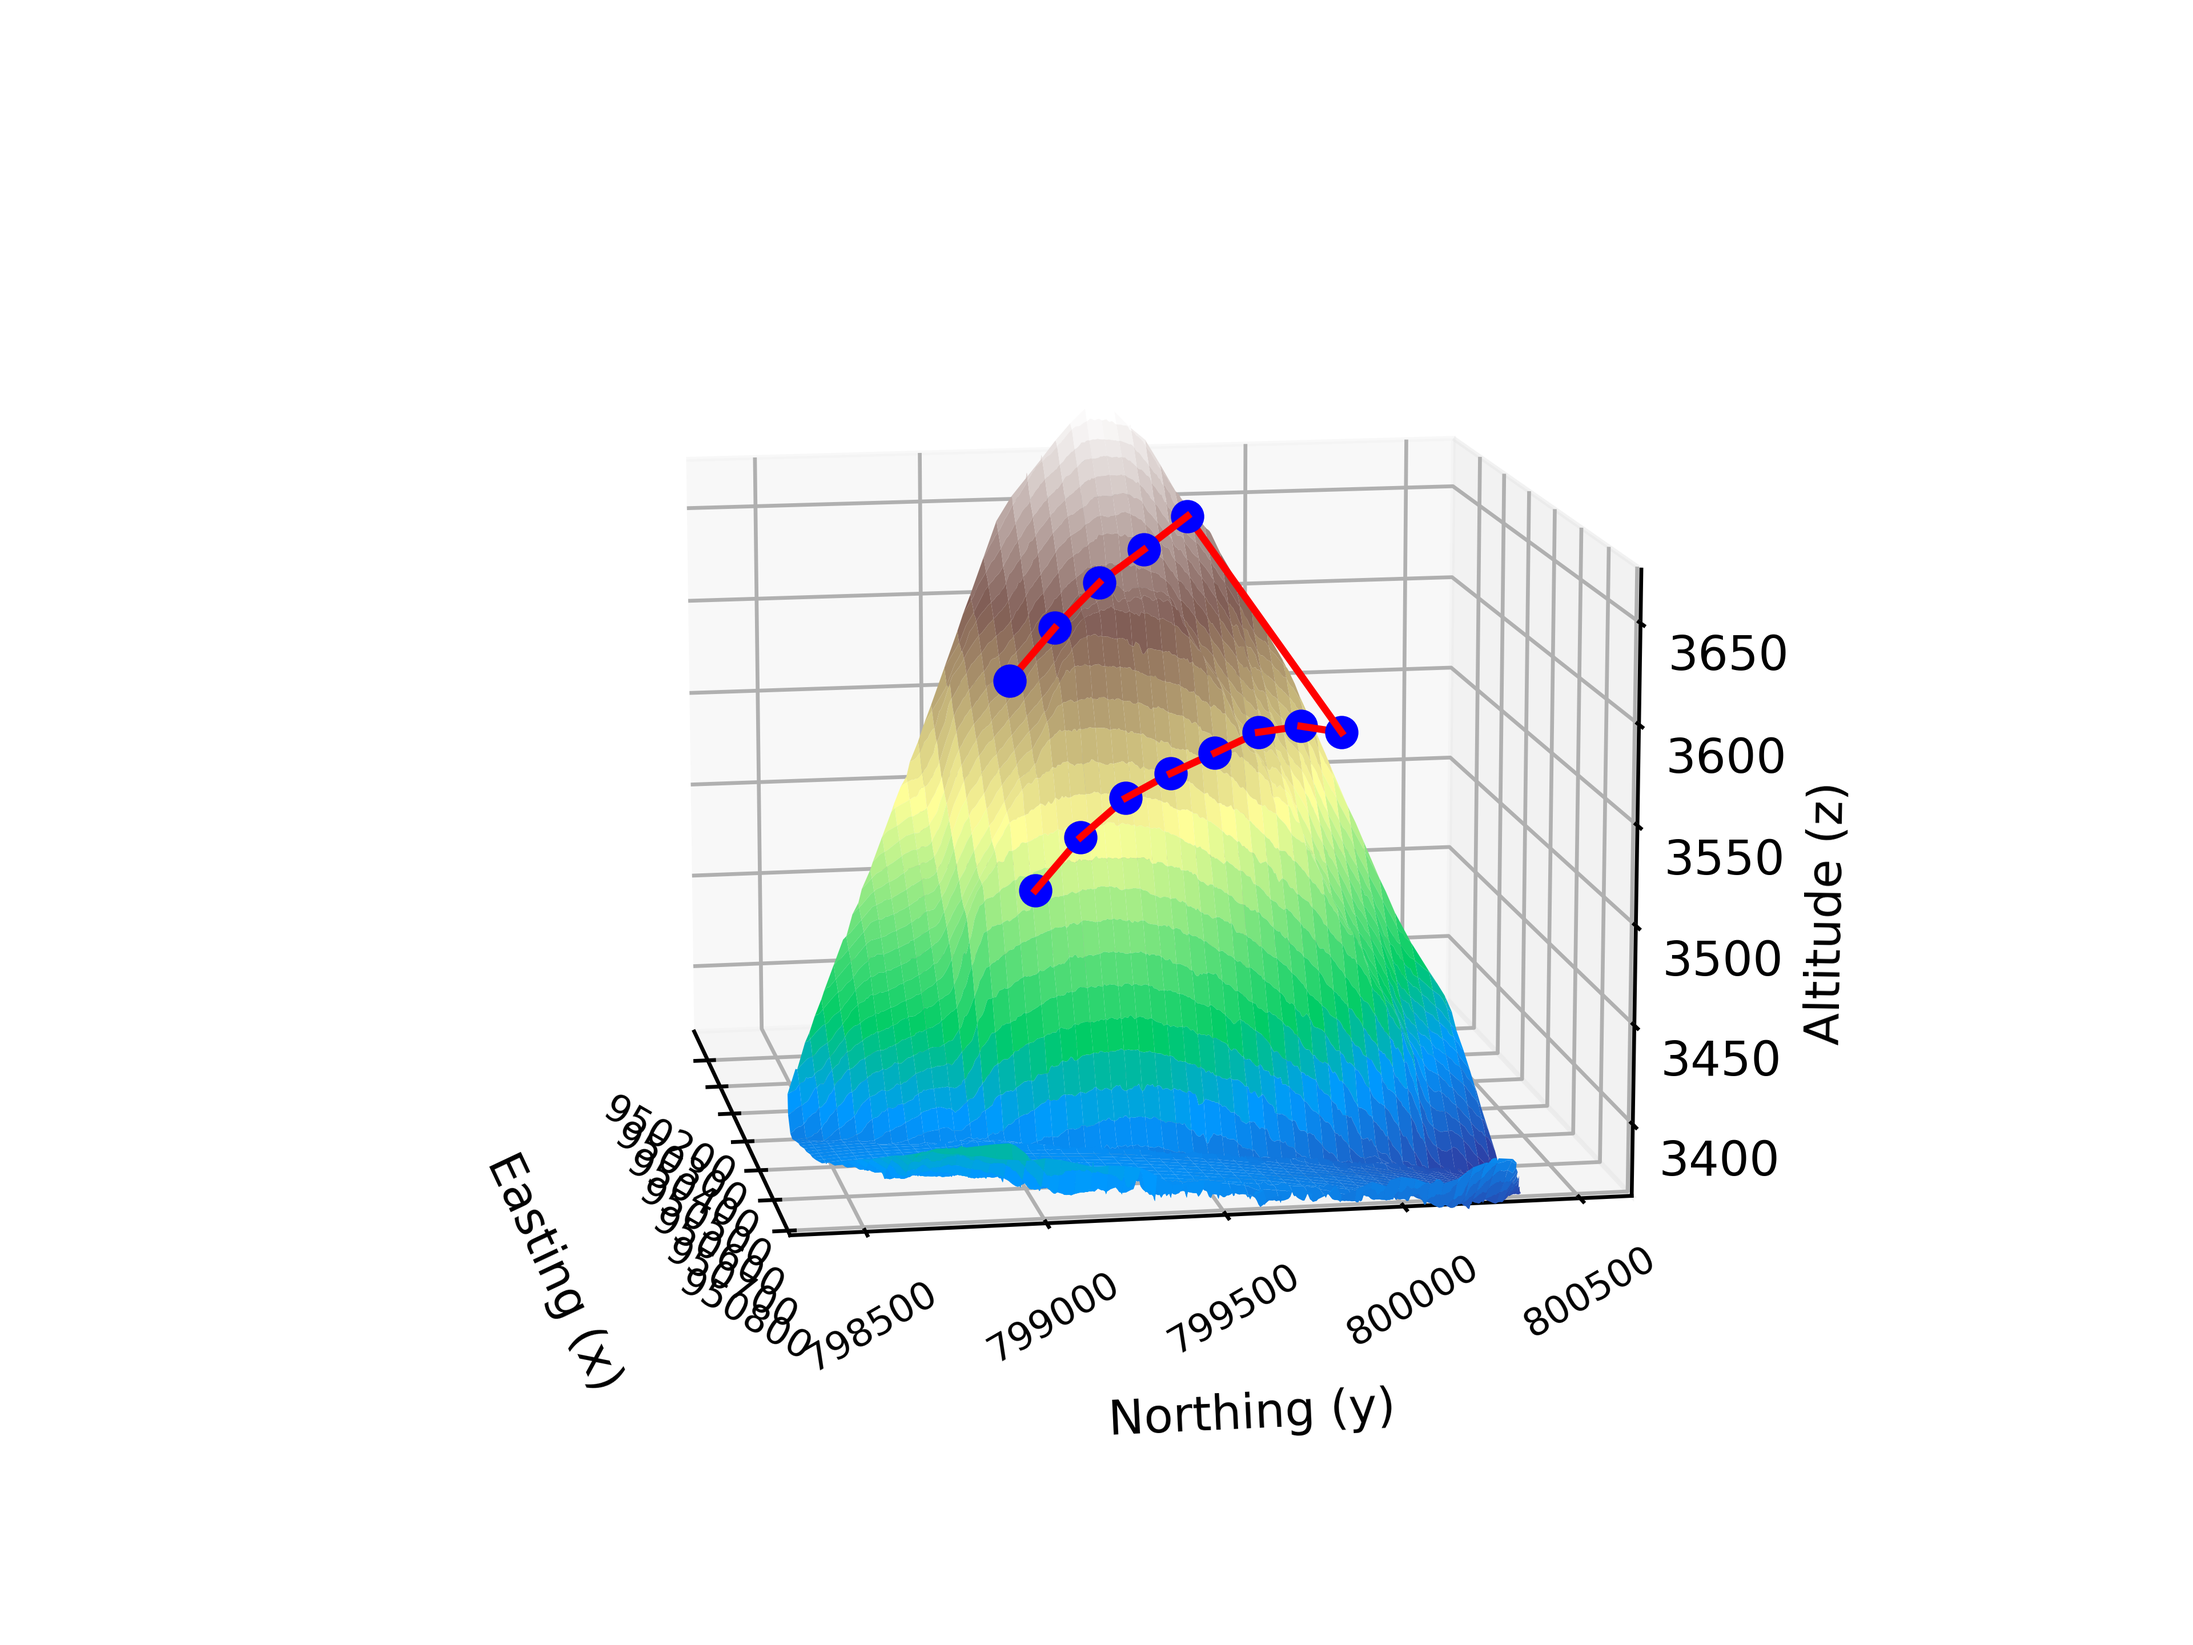
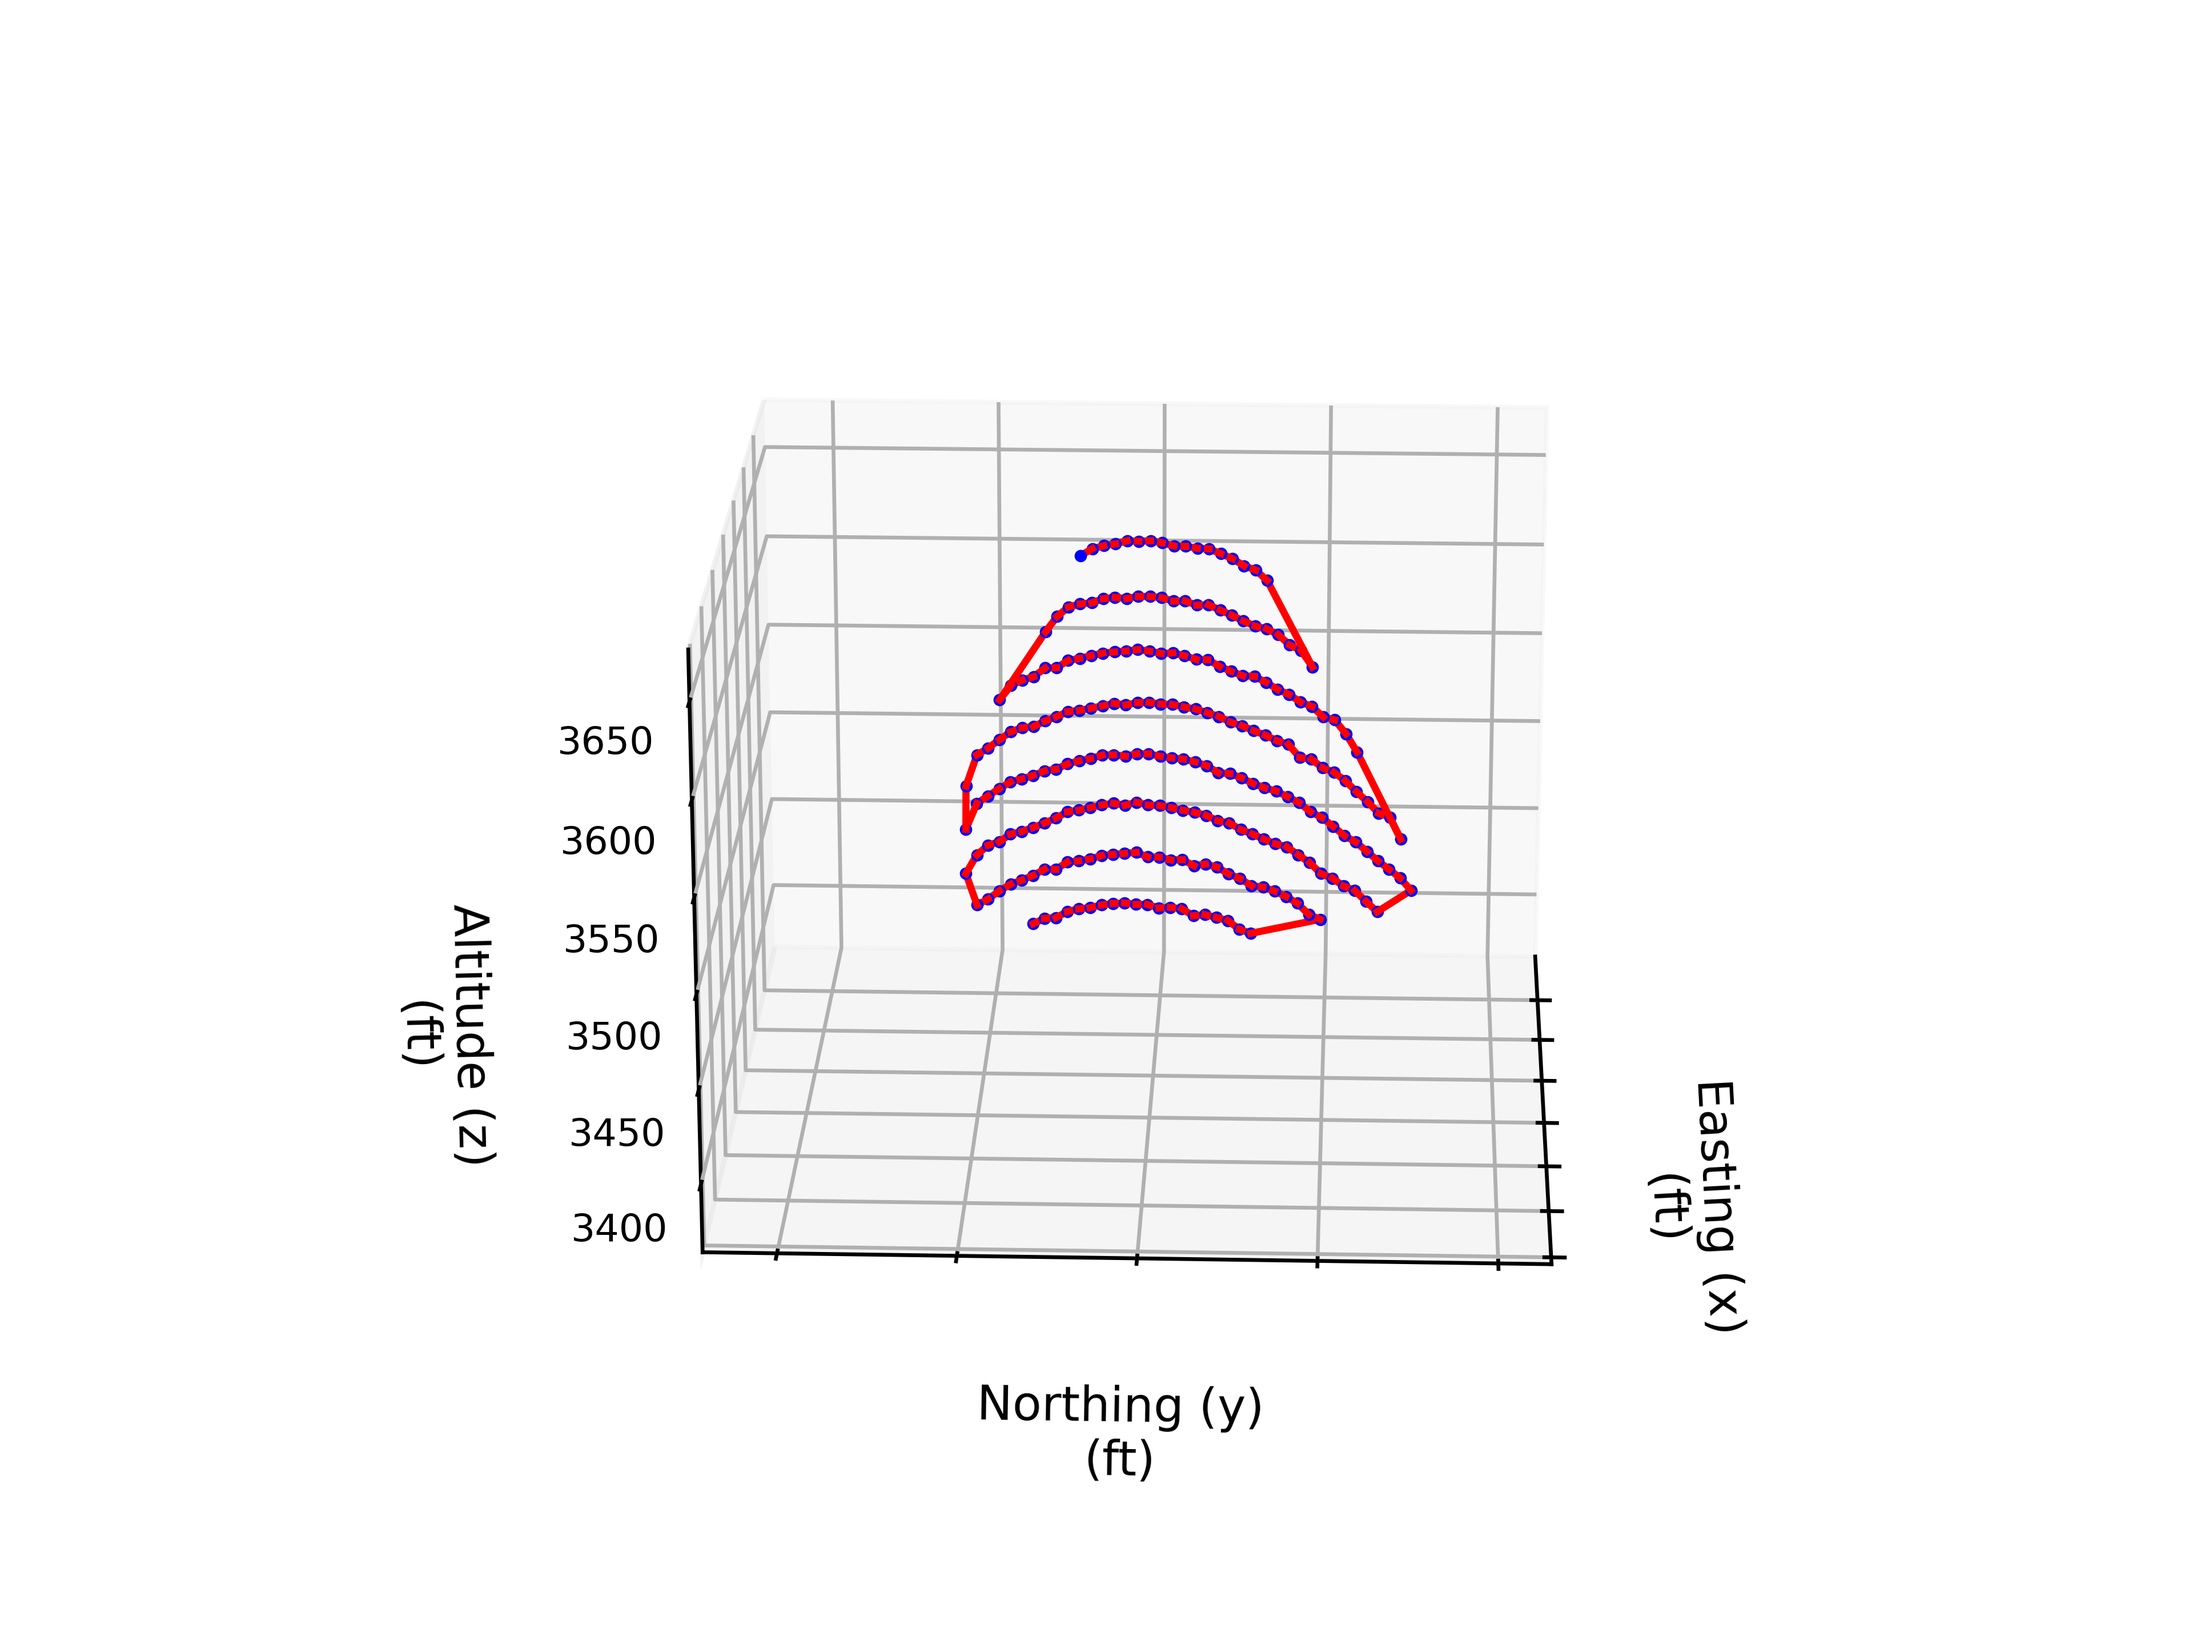
slides figures

diff --git a/generate_waypoints.py b/generate_waypoints.py
@@ -28,7 +28,7 @@ class WaypointGenerator:
     spacing = []
     values = []
 
-    def __init__(self, doc: str, aclearance=CLEARANCE, rotation: float=-8) -> None:
+    def __init__(self, doc: str, aclearance=CLEARANCE, rotation: float=8) -> None:
         self.filtered = []
         self.waypoints = []
 
@@ -105,8 +105,8 @@ class WaypointGenerator:
 
 
 class WaypointPlotter(WaypointGenerator):
-    def __init__(self, doc: str, plot_surface=False, plot_waypoints=True, lim=None) -> None:
-        super().__init__(doc)
+    def __init__(self, doc: str, plot_surface=False, plot_waypoints=True, lim=None, rotation=0) -> None:
+        super().__init__(doc, rotation=rotation)
         name = f"{'-surface' if plot_surface else ''}{'-waypoints' if plot_waypoints else ''}.png"
         
         # Create new variables to make terrain appearance independent of waypoints
@@ -145,19 +145,22 @@ class WaypointPlotter(WaypointGenerator):
             for point in row:
                 plt.plot([point[0], last[0]], [point[1], last[1]], [point[2], last[2]], "r")
                 last = (point[0], point[1], point[2])
-                plt.plot(*last, "bo")
+                plt.plot(*last, "bo", markersize=1.6)
 
+        # plt.show()
+        graph.view_init(elev=20, azim=2)
+        plt.savefig("a.png", dpi=600)
         # do a bunch of views
-        for e in range(5, 31, 5):
-            for a in range(-90, 91, 15):
-                graph.view_init(elev=e, azim=a)
-                # xrot, yrot = max(-45, min((90 + a) % 180, 45)), max(-45, min(a % 180, 45))
-                # graph.tick_params(axis="x", pad=0.2, labelsize=8, labelrotation=xrot)
-                # graph.tick_params(axis="y", pad=0.2, labelsize=8, labelrotation=yrot)
+        # for e in range(5, 31, 5):
+        #     for a in range(-90, 91, 15):
+        #         graph.view_init(elev=e, azim=a)
+        #         # xrot, yrot = max(-45, min((90 + a) % 180, 45)), max(-45, min(a % 180, 45))
+        #         # graph.tick_params(axis="x", pad=0.2, labelsize=8, labelrotation=xrot)
+        #         # graph.tick_params(axis="y", pad=0.2, labelsize=8, labelrotation=yrot)
 
-                file = f"figures/e{e}a{a}{name}"
-                plt.savefig(file, dpi=300)
-                print(f"saved {file}")
+        #         file = f"figures/e{e}a{a}{name}"
+        #         plt.savefig(file, dpi=300)
+        #         print(f"saved {file}")
 
         # # If desired, save file
         # if name is not None:
@@ -168,10 +171,10 @@ class WaypointPlotter(WaypointGenerator):
 
 if __name__ == "__main__":
     bounds = [(950101, 950800), (798340, 800600), (3370, 3670)]
-    a = WaypointGenerator(FILE, rotation=8)
-    a.export()
+    # a = WaypointGenerator(FILE, rotation=8)
+    # a.export()
 
-    # WaypointPlotter(FILE, True, True, bounds)
+    WaypointPlotter(FILE, False, True, bounds, 2)
     # WaypointPlotter(FILE, True, False, bounds)
     # WaypointPlotter(FILE, False, True, bounds)
     # b = WaypointPlotter(FILE, False, bounds, "b")

diff --git a/constants.py b/constants.py
@@ -12,7 +12,7 @@ LEFT_BOUND: float = 950310.0
 RIGHT_BOUND: float = 950600.0
 Z_FILTER: float = 3390.0
 
-GLOBAL_SCALE: float = 1.0
+GLOBAL_SCALE: float = 0.7
 METERS_TO_FEET: float = 3.048
 CAMERA_H: float = 15 * METERS_TO_FEET * GLOBAL_SCALE
 CAMERA_V: float = 11.5 * METERS_TO_FEET * GLOBAL_SCALE
